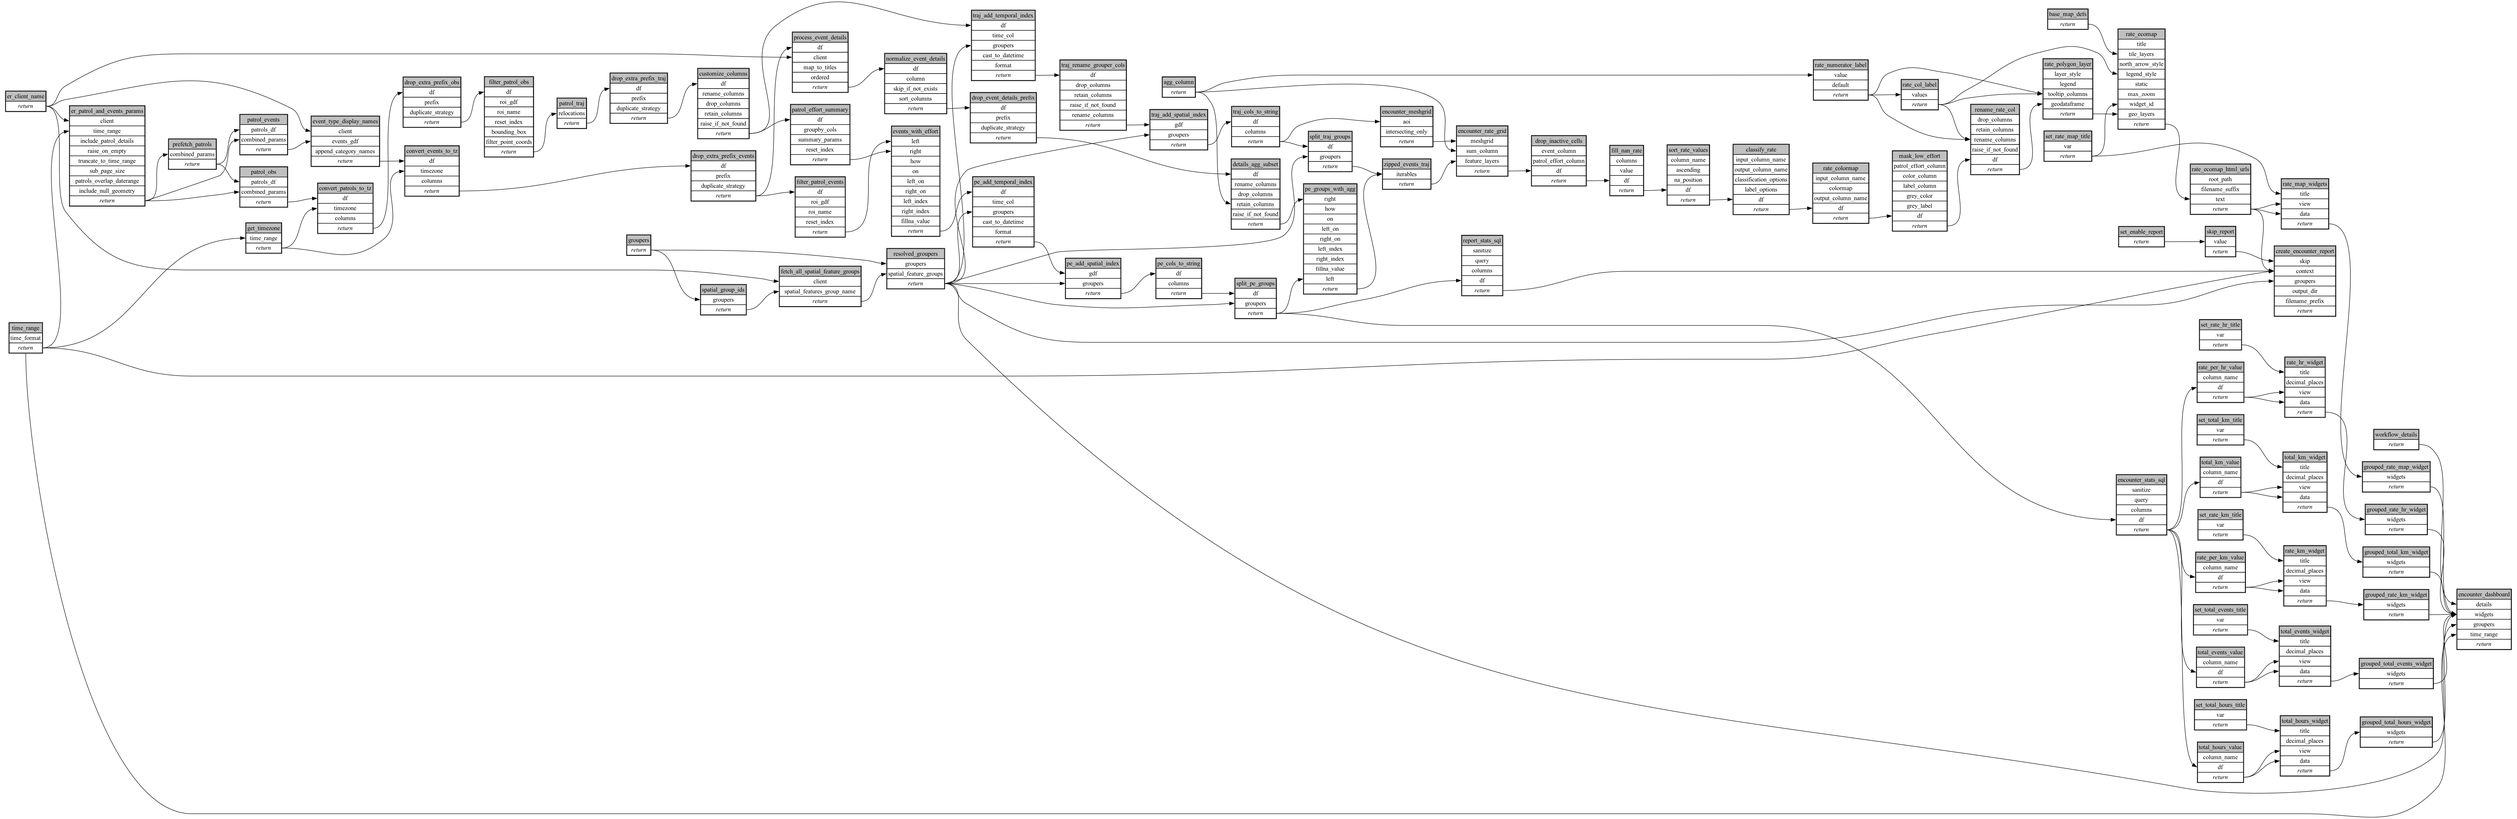
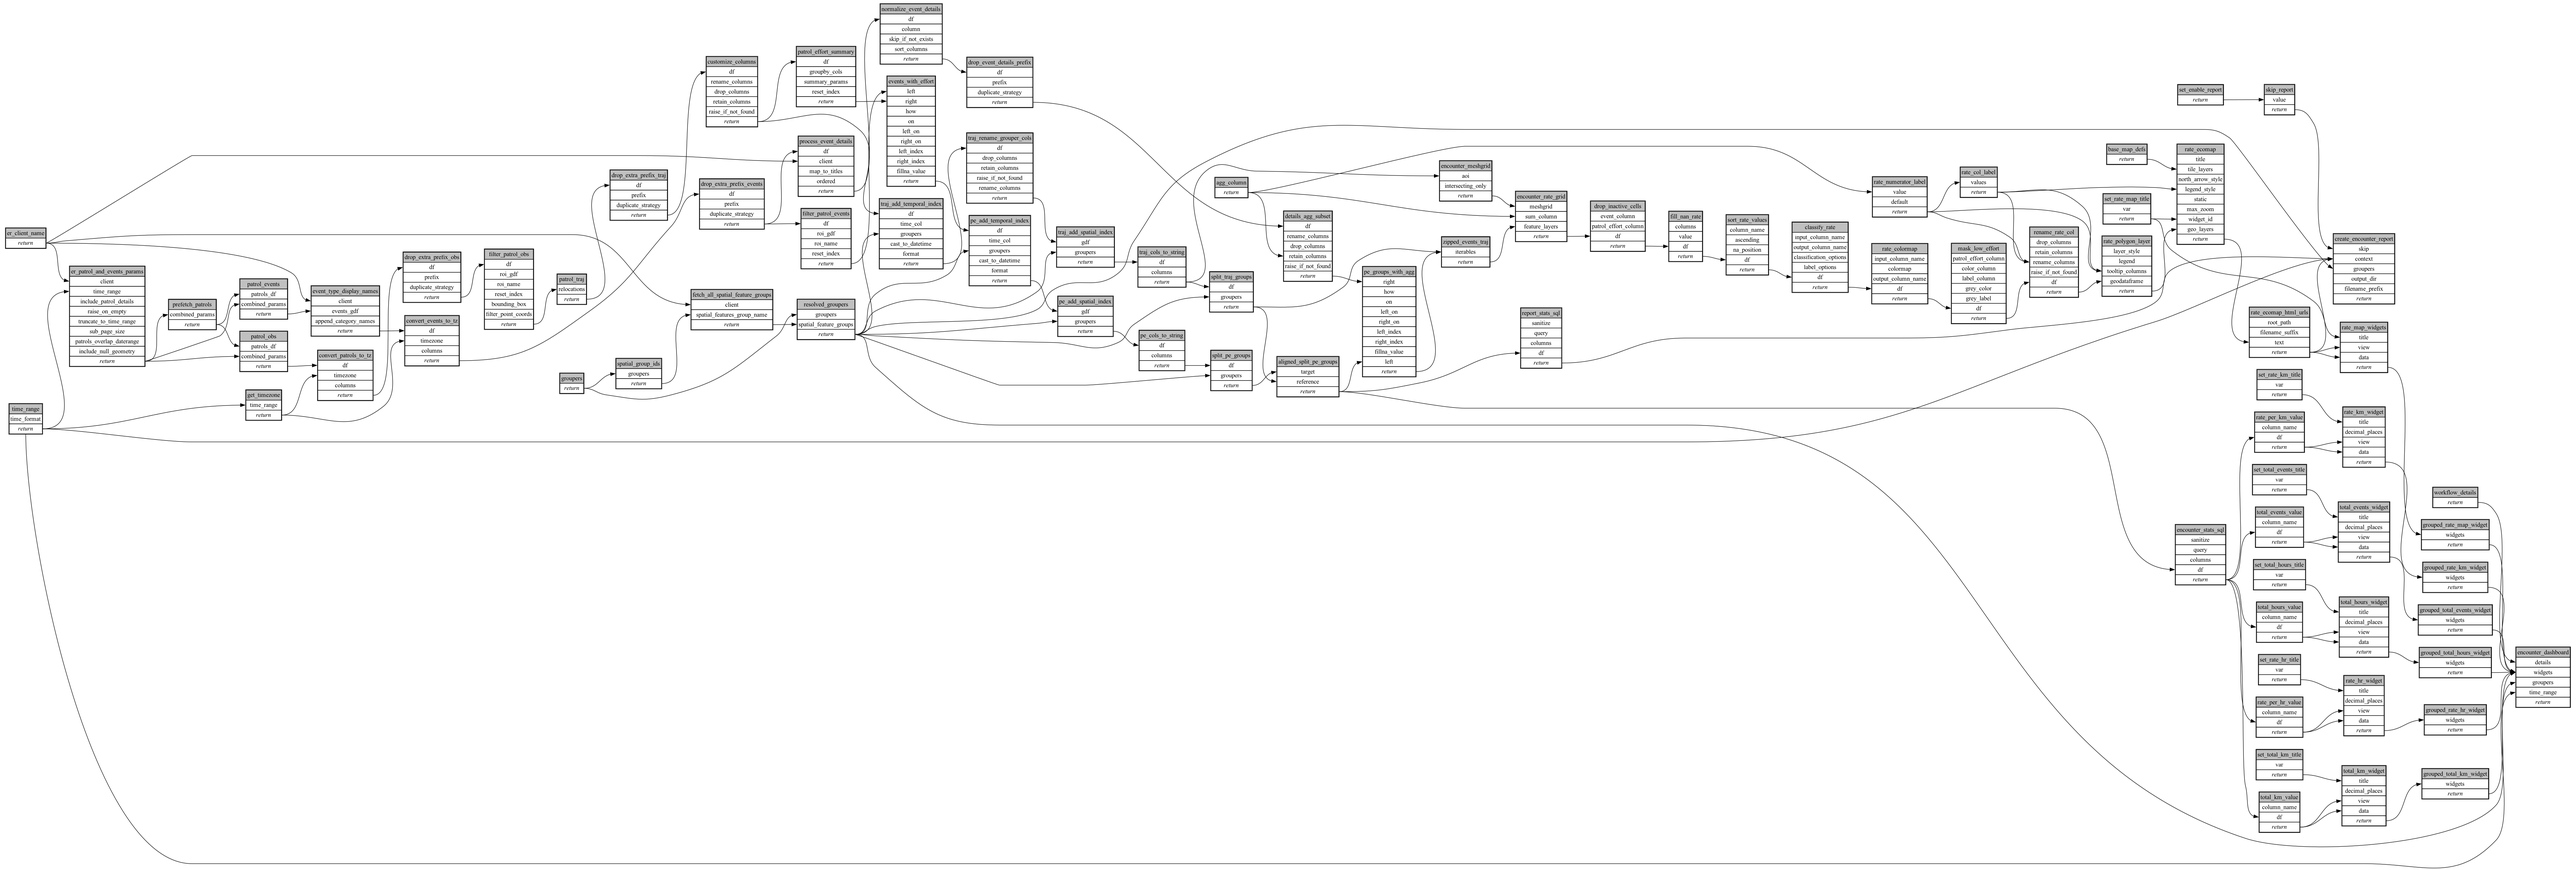
fix: render widgets for groups with patrol effort but no events (#1)
- align split_pe_groups to the trajectory key universe via new
  align_keyed_iterable_to_reference (empty schema-matched fill)
- drop any_is_empty_df skipif on pe_groups_with_agg, encounter_rate_grid,
  encounter_stats_sql, report_stats_sql so aligned empty groups flow
  through: Total Events 0, all-zero rate grid over the patrol footprint
- effort widgets (Hours/Km/rates) show NaN for event-less groups; deriving
  them from trajectories needs a composite ext-custom task (mapvalues maps
  only one argname, so cross-iterable per-group stats can't be wired from
  existing tasks) — left as follow-up per issue #1

diff --git a/ecoscope-workflows-patrol-encounter-rate-map-workflow/ecoscope_workflows_patrol_encounter_rate_map_workflow/dags/run_sequential.py b/ecoscope-workflows-patrol-encounter-rate-map-workflow/ecoscope_workflows_patrol_encounter_rate_map_workflow/dags/run_sequential.py
@@ -115,6 +115,9 @@ from ecoscope_workflows_ext_custom.tasks.spatial_ops import (
     mask_low_effort_cells as mask_low_effort_cells,
 )
 from ecoscope_workflows_ext_custom.tasks.transformation import (
+    align_keyed_iterable_to_reference as align_keyed_iterable_to_reference,
+)
+from ecoscope_workflows_ext_custom.tasks.transformation import (
     merge_two_dataframes as merge_two_dataframes,
 )
 from wt_contracts import validate as _validate
@@ -916,6 +919,27 @@ def main(params: dict[str, Any], validate_params_schema: bool = True):
         .call()
     )
 
+    aligned_split_pe_groups = (
+        task(align_keyed_iterable_to_reference)
+        .validate()
+        .set_task_instance_id("aligned_split_pe_groups")
+        .handle_errors()
+        .with_tracing()
+        .skipif(
+            conditions=[
+                any_is_empty_df,
+                any_dependency_skipped,
+            ],
+            unpack_depth=1,
+        )
+        .partial(
+            target=split_pe_groups,
+            reference=split_traj_groups,
+            **(params.get("aligned_split_pe_groups") or {}),
+        )
+        .call()
+    )
+
     base_map_defs = (
         task(set_base_maps)
         .validate()
@@ -982,7 +1006,6 @@ def main(params: dict[str, Any], validate_params_schema: bool = True):
         .with_tracing()
         .skipif(
             conditions=[
-                any_is_empty_df,
                 any_dependency_skipped,
             ],
             unpack_depth=1,
@@ -998,7 +1021,7 @@ def main(params: dict[str, Any], validate_params_schema: bool = True):
             fillna_value=None,
             **(params.get("pe_groups_with_agg") or {}),
         )
-        .mapvalues(argnames=["left"], argvalues=split_pe_groups)
+        .mapvalues(argnames=["left"], argvalues=aligned_split_pe_groups)
     )
 
     zipped_events_traj = (
@@ -1051,7 +1074,6 @@ def main(params: dict[str, Any], validate_params_schema: bool = True):
         .with_tracing()
         .skipif(
             conditions=[
-                any_is_empty_df,
                 any_dependency_skipped,
             ],
             unpack_depth=1,
@@ -1491,7 +1513,6 @@ def main(params: dict[str, Any], validate_params_schema: bool = True):
         .with_tracing()
         .skipif(
             conditions=[
-                any_is_empty_df,
                 any_dependency_skipped,
             ],
             unpack_depth=1,
@@ -1502,7 +1523,7 @@ def main(params: dict[str, Any], validate_params_schema: bool = True):
             columns=["patrol_id", "total_dist_m", "total_time_s"],
             **(params.get("encounter_stats_sql") or {}),
         )
-        .mapvalues(argnames=["df"], argvalues=split_pe_groups)
+        .mapvalues(argnames=["df"], argvalues=aligned_split_pe_groups)
     )
 
     total_events_value = (
@@ -1827,7 +1848,6 @@ def main(params: dict[str, Any], validate_params_schema: bool = True):
         .with_tracing()
         .skipif(
             conditions=[
-                any_is_empty_df,
                 any_dependency_skipped,
             ],
             unpack_depth=1,
@@ -1838,7 +1858,7 @@ def main(params: dict[str, Any], validate_params_schema: bool = True):
             columns=["patrol_id", "total_dist_m", "total_time_s"],
             **(params.get("report_stats_sql") or {}),
         )
-        .mapvalues(argnames=["df"], argvalues=split_pe_groups)
+        .mapvalues(argnames=["df"], argvalues=aligned_split_pe_groups)
     )
 
     create_encounter_report = (

diff --git a/ecoscope-workflows-patrol-encounter-rate-map-workflow/ecoscope_workflows_patrol_encounter_rate_map_workflow/dags/run_sequential_mock_io.py b/ecoscope-workflows-patrol-encounter-rate-map-workflow/ecoscope_workflows_patrol_encounter_rate_map_workflow/dags/run_sequential_mock_io.py
@@ -143,6 +143,9 @@ from ecoscope_workflows_ext_custom.tasks.spatial_ops import (
     mask_low_effort_cells as mask_low_effort_cells,
 )
 from ecoscope_workflows_ext_custom.tasks.transformation import (
+    align_keyed_iterable_to_reference as align_keyed_iterable_to_reference,
+)
+from ecoscope_workflows_ext_custom.tasks.transformation import (
     merge_two_dataframes as merge_two_dataframes,
 )
 
@@ -942,6 +945,27 @@ def main(params: dict[str, Any], validate_params_schema: bool = True):
         .call()
     )
 
+    aligned_split_pe_groups = (
+        task(align_keyed_iterable_to_reference)
+        .validate()
+        .set_task_instance_id("aligned_split_pe_groups")
+        .handle_errors()
+        .with_tracing()
+        .skipif(
+            conditions=[
+                any_is_empty_df,
+                any_dependency_skipped,
+            ],
+            unpack_depth=1,
+        )
+        .partial(
+            target=split_pe_groups,
+            reference=split_traj_groups,
+            **(params.get("aligned_split_pe_groups") or {}),
+        )
+        .call()
+    )
+
     base_map_defs = (
         task(set_base_maps)
         .validate()
@@ -1008,7 +1032,6 @@ def main(params: dict[str, Any], validate_params_schema: bool = True):
         .with_tracing()
         .skipif(
             conditions=[
-                any_is_empty_df,
                 any_dependency_skipped,
             ],
             unpack_depth=1,
@@ -1024,7 +1047,7 @@ def main(params: dict[str, Any], validate_params_schema: bool = True):
             fillna_value=None,
             **(params.get("pe_groups_with_agg") or {}),
         )
-        .mapvalues(argnames=["left"], argvalues=split_pe_groups)
+        .mapvalues(argnames=["left"], argvalues=aligned_split_pe_groups)
     )
 
     zipped_events_traj = (
@@ -1077,7 +1100,6 @@ def main(params: dict[str, Any], validate_params_schema: bool = True):
         .with_tracing()
         .skipif(
             conditions=[
-                any_is_empty_df,
                 any_dependency_skipped,
             ],
             unpack_depth=1,
@@ -1517,7 +1539,6 @@ def main(params: dict[str, Any], validate_params_schema: bool = True):
         .with_tracing()
         .skipif(
             conditions=[
-                any_is_empty_df,
                 any_dependency_skipped,
             ],
             unpack_depth=1,
@@ -1528,7 +1549,7 @@ def main(params: dict[str, Any], validate_params_schema: bool = True):
             columns=["patrol_id", "total_dist_m", "total_time_s"],
             **(params.get("encounter_stats_sql") or {}),
         )
-        .mapvalues(argnames=["df"], argvalues=split_pe_groups)
+        .mapvalues(argnames=["df"], argvalues=aligned_split_pe_groups)
     )
 
     total_events_value = (
@@ -1853,7 +1874,6 @@ def main(params: dict[str, Any], validate_params_schema: bool = True):
         .with_tracing()
         .skipif(
             conditions=[
-                any_is_empty_df,
                 any_dependency_skipped,
             ],
             unpack_depth=1,
@@ -1864,7 +1884,7 @@ def main(params: dict[str, Any], validate_params_schema: bool = True):
             columns=["patrol_id", "total_dist_m", "total_time_s"],
             **(params.get("report_stats_sql") or {}),
         )
-        .mapvalues(argnames=["df"], argvalues=split_pe_groups)
+        .mapvalues(argnames=["df"], argvalues=aligned_split_pe_groups)
     )
 
     create_encounter_report = (

diff --git a/ecoscope-workflows-patrol-encounter-rate-map-workflow/README.md b/ecoscope-workflows-patrol-encounter-rate-map-workflow/README.md
@@ -5,8 +5,8 @@
 
 ```yaml
 # fingerprint:
-artifacts_sha256_basic: 48a0d55a18590b93f41244b293505d72d81bc8ed8f3cc4bd4f9643caaf514c57
-artifacts_sha256_strict: 88ba4e9c662e278d9e61d9eedb246fb752578ad3d270f77071b45e3045a43f98
+artifacts_sha256_basic: f94169cfbc2b8f21d49ed08a529e69aff74eba75c2bdfc1c3c838407cfad2d6f
+artifacts_sha256_strict: 3af132cf38e609ca187716d83b3708ef63aab20b214b0f96adc28c22c9b485d4
 installed_requirements:
 - channel: https://repo.prefix.dev/ecoscope-workflows/
   name: ecoscope-platform
@@ -18,7 +18,7 @@ installed_requirements:
   name: setuptools
   version: {version: ==81.0.0}
 params_sha256: 422e890f959e6bbd23040f7d9acf619dadf78cc00f39103ebff6458c366e3302
-spec_sha256: 47ca14217194f50029fe793242b14dde4b53c37e20aa9071f4afea9d2196173b
+spec_sha256: b351e6cbf56a222b12f4161d3bcf52861b5efbb146645f65713b74d6b9bd81bd
 
 ```
 
